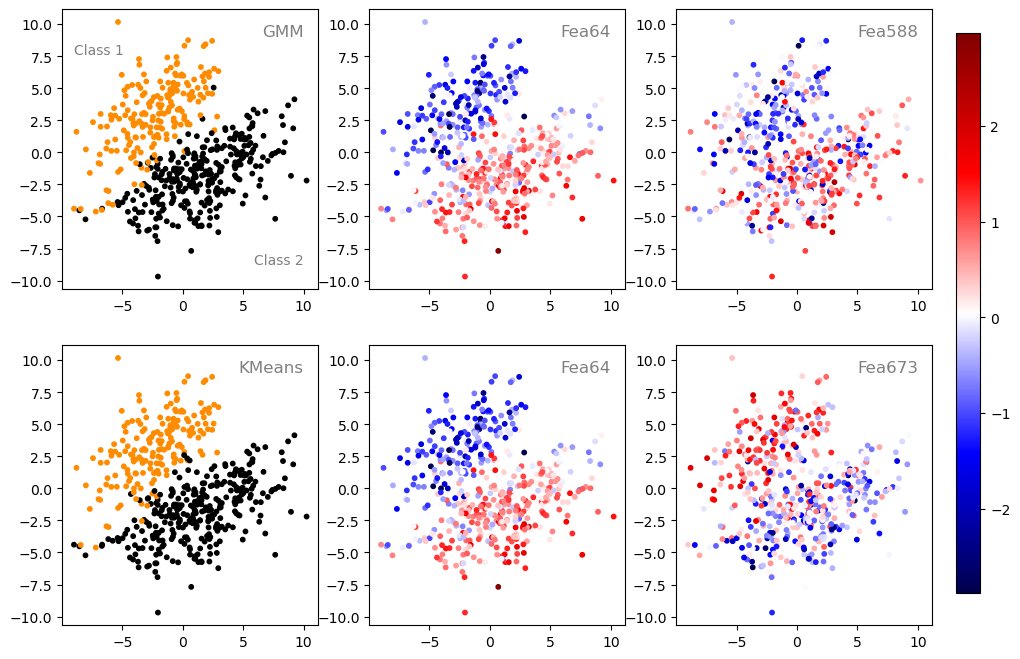
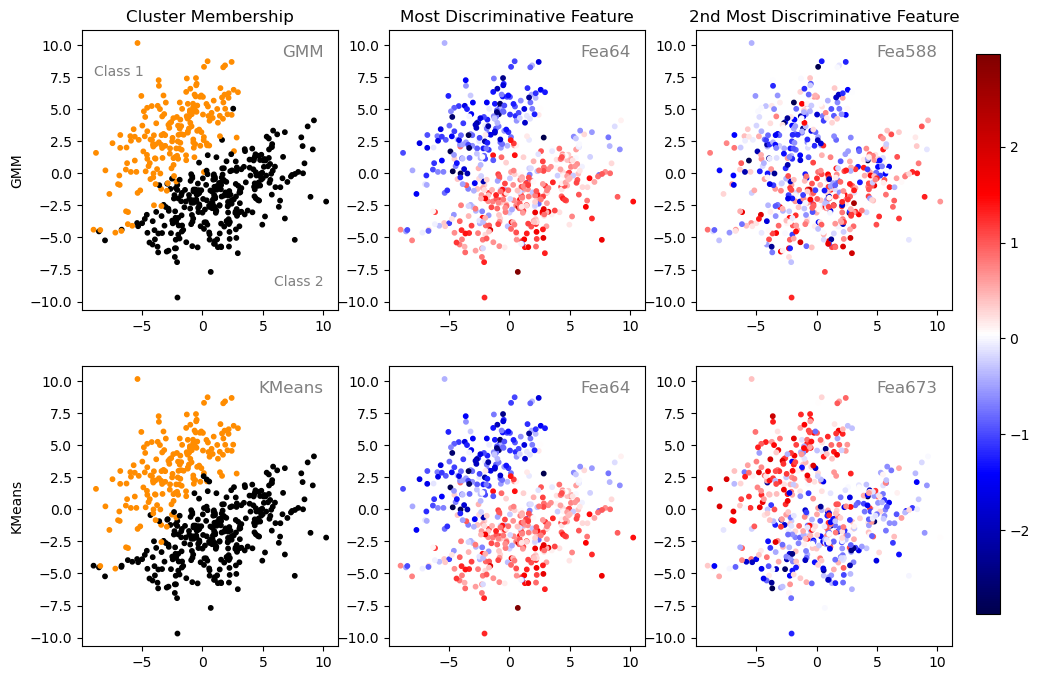
Re-did some code and plots for q5.

diff --git a/report/src/main.tex b/report/src/main.tex
@@ -33,8 +33,6 @@
 
 
 \section{Section A}\label{sec:section-a}
-This section contains the answers to the questions in Section A of the coursework assignment.
-Wherever the phrase 'dataset' is used in this section, it refers to \inlinecode{A_NoiseAdded.csv}.
 \input{sections/q1}
 \input{sections/q2}
 \input{sections/q3}
@@ -42,6 +40,7 @@ Wherever the phrase 'dataset' is used in this section, it refers to \inlinecode{
 
 \section{Section B}\label{sec:section-b}
 \input{sections/q4}
+\input{sections/q5}
 
 \appendix
 

diff --git a/src/q5/scripts/_q5a.py b/src/q5/scripts/_q5a.py
@@ -240,10 +240,10 @@ def q5a():
         cmatrix.values,
         columns=['1', '2', 'Tot. (GMM)'],
         index=['1', '2', 'Tot. (KMeans)'],
-        figsize=(3, 3),
+        figsize=(4.5, 2),
+        fontsize=16,
+        scale=(1.6, 2),
     )
-
-    tbl.scale(1.2, 1.2)
 
     tbl[(3, 2)].set_facecolor('white')
     tbl[(3, 2)].set_text_props(color='black')

diff --git a/src/q5/scripts/_q5b.py b/src/q5/scripts/_q5b.py
@@ -176,10 +176,10 @@ def q5b():
         cmatrix.values,
         columns=['1', '2', 'Tot. (GMM)'],
         index=['1', '2', 'Tot. (KMeans)'],
-        figsize=(3, 3),
+        figsize=(4.5, 2),
+        fontsize=16,
+        scale=(1.6, 2),
     )
-
-    tbl.scale(1.2, 1.2)
 
     tbl[(3, 2)].set_facecolor('white')
     tbl[(3, 2)].set_text_props(color='black')

diff --git a/src/q5/scripts/_q5c.py b/src/q5/scripts/_q5c.py
@@ -163,4 +163,11 @@ def q5c():
         color='grey',
     )
 
+    ax[0, 0].set_title('Cluster Membership')
+    ax[0, 1].set_title('Most Discriminative Feature')
+    ax[0, 2].set_title('2nd Most Discriminative Feature')
+
+    ax[0, 0].set_ylabel('GMM')
+    ax[1, 0].set_ylabel('KMeans')
+
     save_fig(__file__, 'q5c.png')
